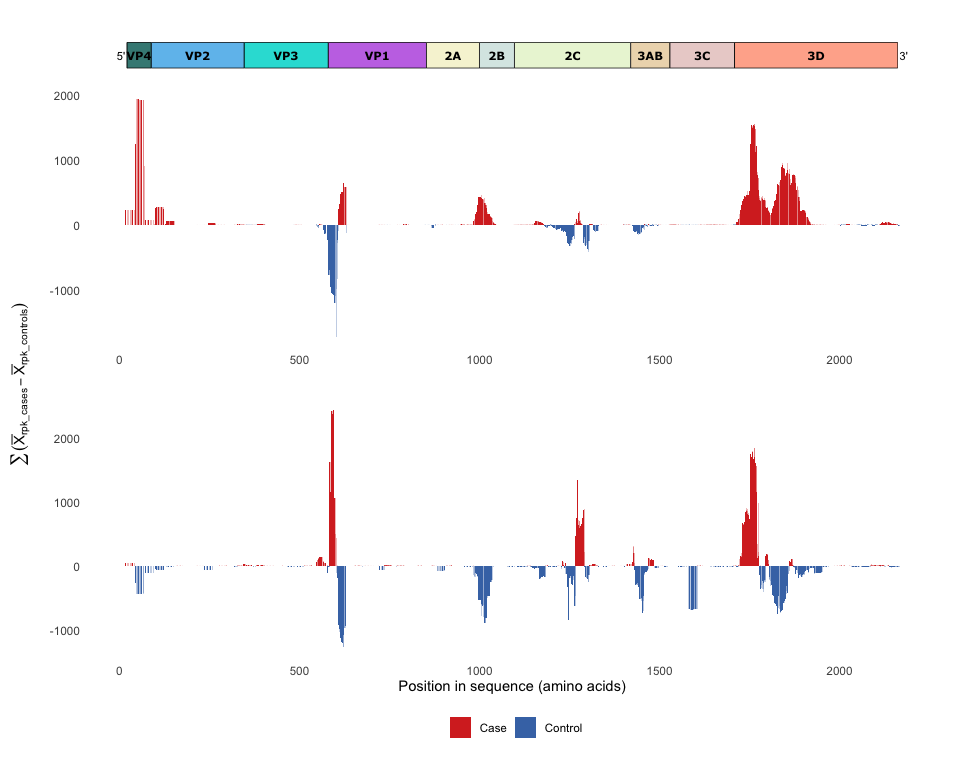
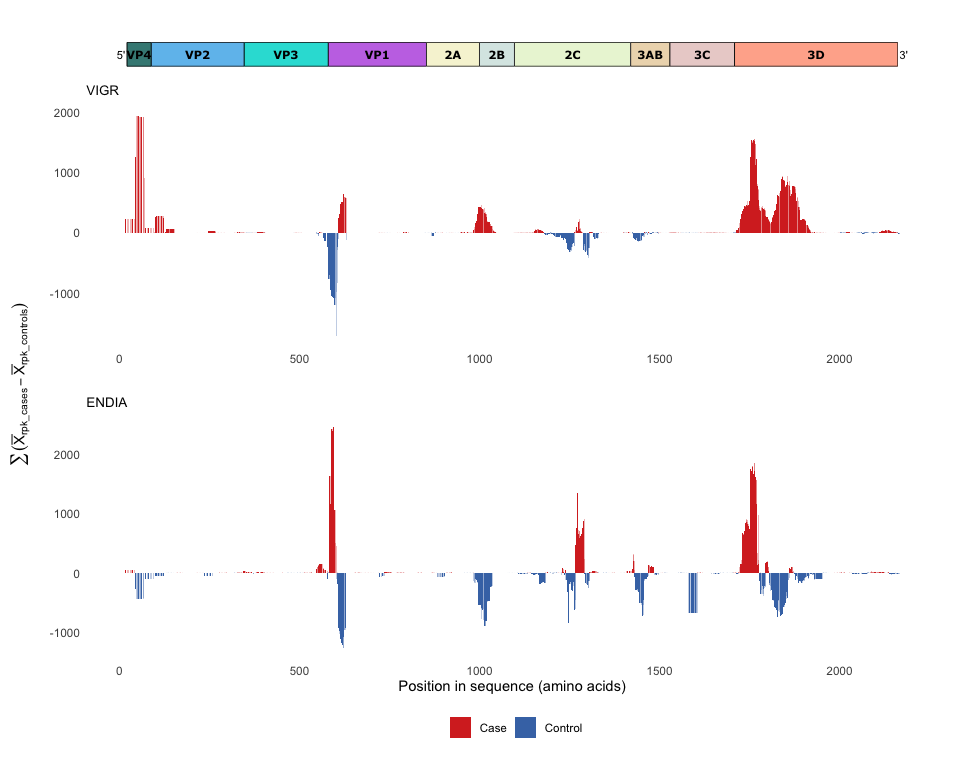
Added Figure description and labels :label:

diff --git a/01_figure_01_CXVB_epitope_mapping.md b/01_figure_01_CXVB_epitope_mapping.md
@@ -107,7 +107,8 @@ endia_fc <- calculate_rpk_fold_change(endia_virscan_onset, sample_id, condition,
 endia_ms <- calculate_moving_sum(endia_fc, value_column = fold_change, win_size = 32, step_size = 4)
 
 endia_ms_plot <- endia_ms %>% 
-  ms_plot_clean() 
+  ms_plot_clean() +
+  ggtitle("ENDIA")
 ```
 
 ### VIGR
@@ -157,7 +158,8 @@ vigr_fc <- calculate_rpk_fold_change(vigr_virscan_metadata, sample_id, Condition
 vigr_ms <- calculate_moving_sum(vigr_fc, value_column = fold_change, win_size = 32, step_size = 4)
 
 vigr_ms_plot <- vigr_ms %>% 
-  ms_plot_clean()
+  ms_plot_clean() +
+  ggtitle("VIGR")
 ```
 
 ## Comparison of epitope landscape per case
@@ -200,6 +202,30 @@ figure_1 <- wrap_elements(combined_ms_plots) +
 
 ![](01_figure_01_CXVB_epitope_mapping_files/figure-gfm/unnamed-chunk-13-1.png)<!-- -->
 
+**Figure 1:** Comparison of enterovirus epitope landscapes in children
+with islet autoimmunity versus controls in two cohorts, VIGR (top) and
+ENDIA (bottom). Enterovirus-specific epitopes were measured for IgG/IgA
+antibody binding (binding 56- mer linear peptides displayed by the
+comprehensive VirScan T7 bacteriophage library covering all known human
+virus peptidome) in children with persistent islet autoimmunity (Stage 2
+type 1 diabetes), followed in two different Australian prospective
+cohorts (VIGR and ENDIA). Antibody-bound epitope positions were mapped
+to the genome polyprotein of a well characterised enterovirus reference
+sequence (CVB1 polyprotein; UniProt: P08291). Plasma samples were
+collected at the time of persistent islet autoimmunity onset (positivity
+for at least one type of islet autoantibody in two consecutive study
+visits held 3 months apart). Controls were matched based on age and sex,
+and the time of sample collection. To compare targeting antibody
+abundance between cases (purple) and controls (green) at each epitope
+position, the moving sum of the difference between the mean reads per
+thousand (RPK) were calculated between cases vs controls, with a window
+size of 32 amino acids incremented by steps of 4 amino acids. Above 0 in
+y-axis demonstrates epitope enrichment in cases compared to controls,
+meaning that more antibodies targeting these regions of the genome
+polyprotein of enteroviruses exist in children with islet autoimmunity
+vs controls. Conversely, negative peaks demonstrate enrichment in
+controls vs cases.
+
 ## Supplementary information :heavy_plus_sign:
 
 <details>
@@ -233,8 +259,8 @@ endia_fc_plot <- endia_fc %>%
     ggtitle("ENDIA")
 
 combined_fc_plots <- wrap_plots(EV_B1_plot,
-                                endia_fc_plot,
-                                vigr_fc_plot + labs(x = "Position in sequence (amino acids)") + theme(legend.position = "bottom"),
+                                vigr_fc_plot,
+                                endia_fc_plot + labs(x = "Position in sequence (amino acids)") + theme(legend.position = "bottom"),
                                                      ncol = 1, heights = c(0.3, 3, 3)) &
   theme(plot.margin = margin(5.5, 5.5, 5.5, 0),
         plot.title = element_text(size = 10)) 
